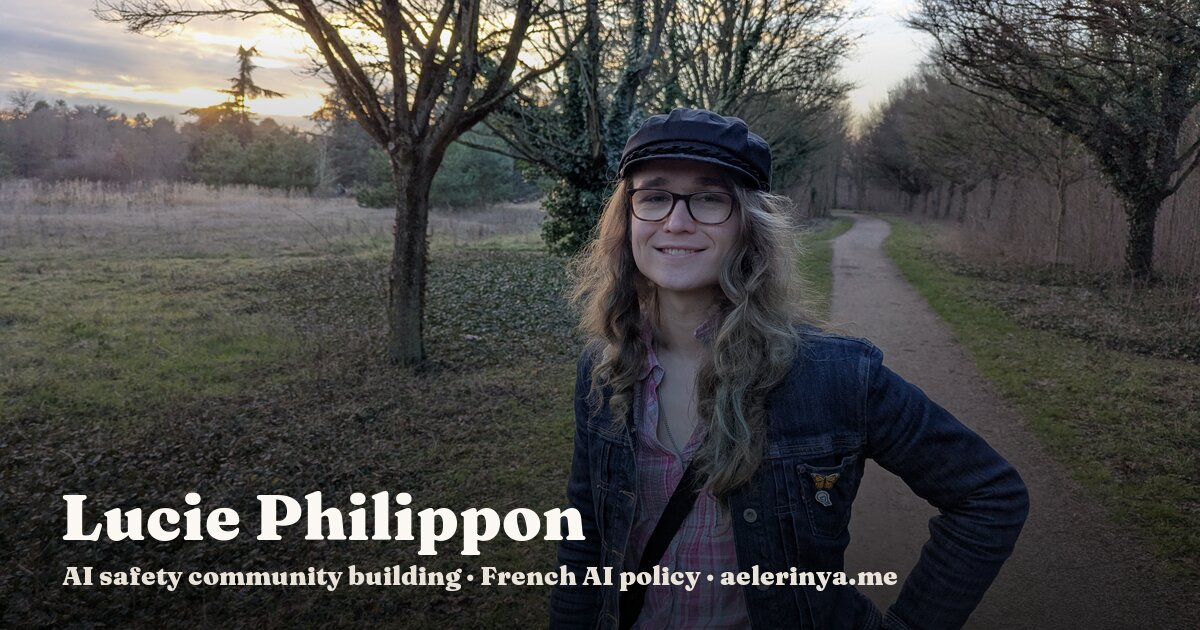
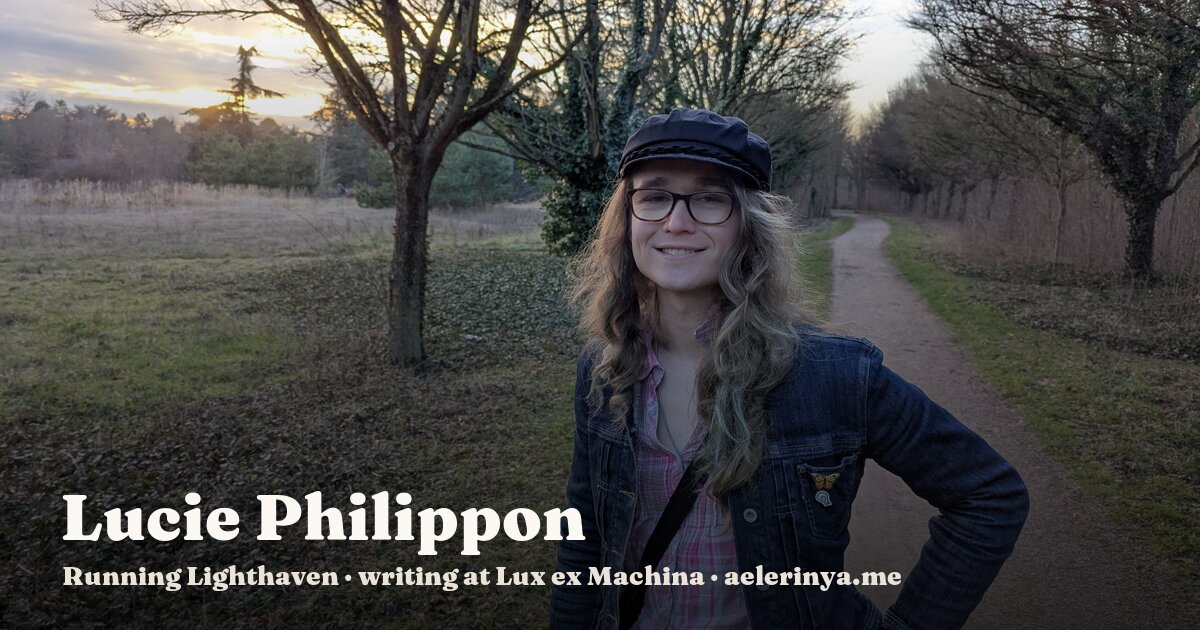
feat: update work section — Lightcone Infrastructure / Lighthaven, Paris era as 'previously'
Also refresh site description and OG tagline for the Berkeley move.

Changed region(s): [[0.0308, 0.8746, 0.7708, 0.9349]]

diff --git a/lib/content.ts b/lib/content.ts
@@ -22,9 +22,9 @@ export interface Profile {
 export const profile: Profile = {
   name: "Lucie Philippon",
   handle: "aelerinya",
-  location: "Paris",
+  location: "Berkeley",
   intro:
-    "Hi! I'm Lucie — a French rationalist in Paris. I work on AI safety community building and French AI policy, and I write about all of it, plus the occasional personal development rabbit hole.",
+    "Hi! I'm Lucie — a French rationalist in Berkeley. I run Lighthaven, one of the coolest places in the world. Before, I was doing AI policy and community building in Paris, and wrote about a lot of it.",
 };
 
 export interface IdentityLink {
@@ -45,10 +45,9 @@ export const identityLinks: IdentityLink[] = [
 export const now = {
   updated: "August 2026",
   items: [
-    // TODO(lucie): replace with your real current status
-    "Building up the AI safety community in Paris.",
-    "Writing about French AI policy and whatever else is on my mind, at Lux ex Machina and LessWrong.",
-    "Open to interesting work and projects that need a hand.",
+    "Running Lighthaven",
+    "Preparing for Burning Man with my camp, Next Year on Luna (join us!)",
+    "Trying out group houses in Berkeley",
   ],
 };
 
@@ -72,12 +71,19 @@ export const writingVenues = [
 
 export const work = {
   blurb:
-    "I work on AI safety community building and French AI policy, from Paris. Recent projects:",
+    "I work at Lightcone Infrastructure, where I run Lighthaven, our campus in Berkeley.",
   projects: [
-    { label: "Global Call on AI Red Lines", href: "https://red-lines.ai/" },
-    { label: "AI Safety Connect", href: "https://www.aisafetyconnect.com/" },
-    { label: "AI Safety Paris", href: "/paris-ai-safety" },
+    { label: "Lightcone Infrastructure", href: "https://www.lightconeinfrastructure.com/" },
+    { label: "Lighthaven", href: "https://www.lighthaven.space/" },
   ],
+  previously: {
+    blurb: "Previously, I worked on AI safety community building and French AI policy in Paris:",
+    projects: [
+      { label: "Global Call on AI Red Lines", href: "https://red-lines.ai/" },
+      { label: "AI Safety Connect", href: "https://www.aisafetyconnect.com/" },
+      { label: "AI Safety Paris", href: "/paris-ai-safety" },
+    ],
+  },
   hireLine: [
     { label: "CV", href: "/cv" },
     { label: "hire me", href: "/hire-me" },

diff --git a/app/page.tsx b/app/page.tsx
@@ -102,6 +102,17 @@ export default function Home() {
             </li>
           ))}
         </ul>
+        <p className="mt-6 text-muted">{work.previously.blurb}</p>
+        <ul className="mt-3 space-y-2">
+          {work.previously.projects.map((project) => (
+            <li key={project.label} className="flex gap-3">
+              <span className="opacity-60" style={{ color: "var(--accent)" }} aria-hidden="true">
+                ✦
+              </span>
+              <InlineLink href={project.href}>{project.label}</InlineLink>
+            </li>
+          ))}
+        </ul>
         <p className="mt-6 text-muted">
           Open to interesting work —{" "}
           {work.hireLine.map((link, i) => (

diff --git a/lib/site.ts b/lib/site.ts
@@ -1,4 +1,4 @@
 export const SITE_URL = "https://aelerinya.me";
 export const SITE_NAME = "Lucie Philippon";
 export const SITE_DESCRIPTION =
-  "AI safety community building and French AI policy, from Paris. Writing at Lux ex Machina, LessWrong, and elsewhere.";
+  "Running Lighthaven at Lightcone Infrastructure, in Berkeley. Writing at Lux ex Machina, LessWrong, and elsewhere.";
